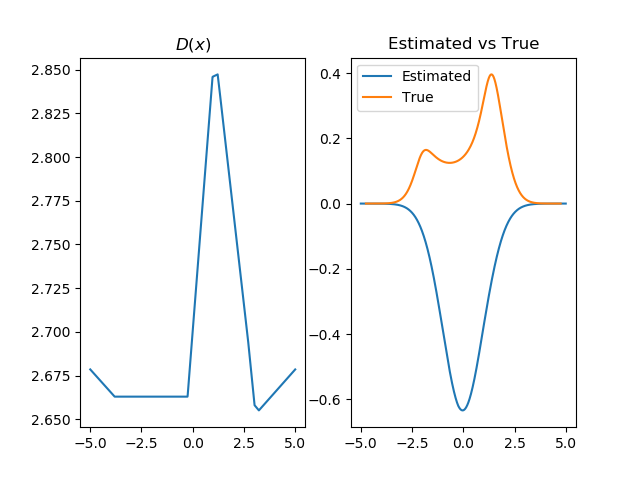
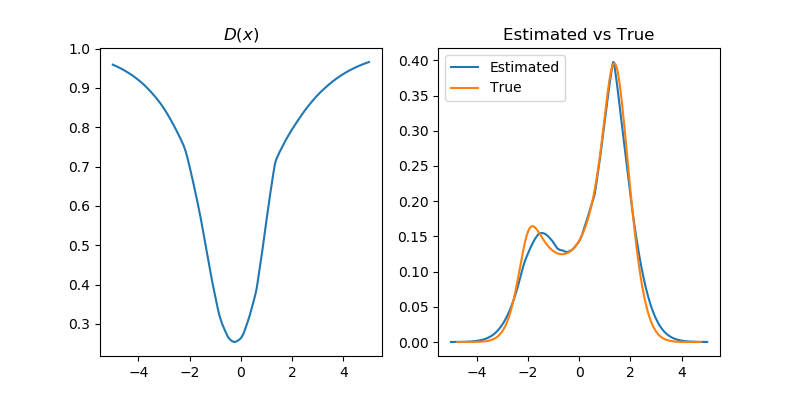
Q1.4 done!

diff --git a/problem1/q1_4.py b/problem1/q1_4.py
@@ -22,7 +22,7 @@ def unk_loss(Dx, Dy, grad=None, lamb=10):
     '''
     Objective function the value function in q1.4.
     '''
-    loss = torch.log(Dx).mean() + torch.log(Dy).mean()
+    loss = torch.log(Dx).mean() + torch.log(1 - Dy).mean()
     # We want to maximize this objective, not minimize it, so we negate it
     loss = -1 * loss
     return loss
@@ -41,5 +41,5 @@ if __name__ == '__main__':
     mlp = MLP(config, device=device)
 
     # Train and save
-    mlp.train(p, q, loss_fn=unk_loss, num_epochs=1000)
+    mlp.train(p, q, loss_fn=unk_loss, num_epochs=20000)
     mlp.save_model('unk.pt')

diff --git a/problem1/q1_3.py b/problem1/q1_3.py
@@ -53,11 +53,11 @@ if __name__ == '__main__':
         # Train discriminators
         print('Training JSD...')
         jsd = MLP(jsd_config, device=device)
-        jsd.train(p, q, loss_fn=jsd_loss, dist_type='jsd', num_epochs=800)
+        jsd.train(p, q, loss_fn=jsd_loss, dist_type='jsd', num_epochs=900)
 
         print('Training WD...')
         wd = MLP(wd_config, device=device)
-        wd.train(p, q, loss_fn=wd_loss, dist_type='wd', num_epochs=400)
+        wd.train(p, q, loss_fn=wd_loss, dist_type='wd', num_epochs=900)
 
         # Sample from p and q
         x = next(p)

diff --git a/density_estimation.py b/density_estimation.py
@@ -72,7 +72,7 @@ xx = torch.from_numpy(xx).float().to(device)
 r = unk.model(xx) # evaluate xx using your discriminator; replace xx with the output
 xx = xx.cpu().numpy()
 r = r.cpu().detach().numpy()
-#plt.figure(figsize=(8,4))
+plt.figure(figsize=(8,4))
 plt.subplot(1,2,1)
 plt.plot(xx,r)
 plt.title(r'$D(x)$')
@@ -85,6 +85,7 @@ plt.plot(xx,estimate)
 plt.plot(f(torch.from_numpy(xx)).numpy(), d(torch.from_numpy(xx)).numpy()**(-1)*N(xx))
 plt.legend(['Estimated','True'])
 plt.title('Estimated vs True')
+
 plt.savefig('q1_4_estimated_density.png')
 
 
